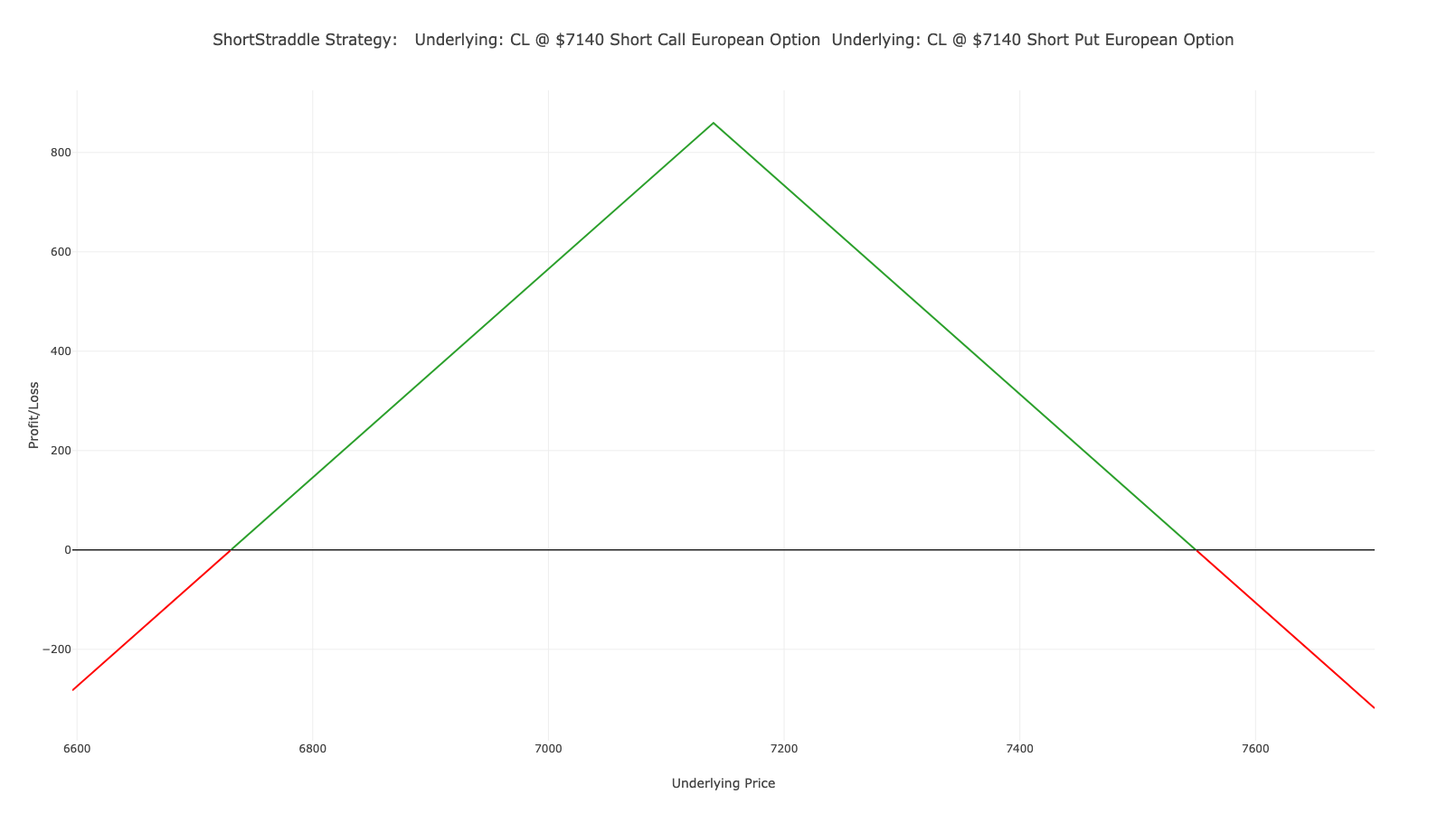
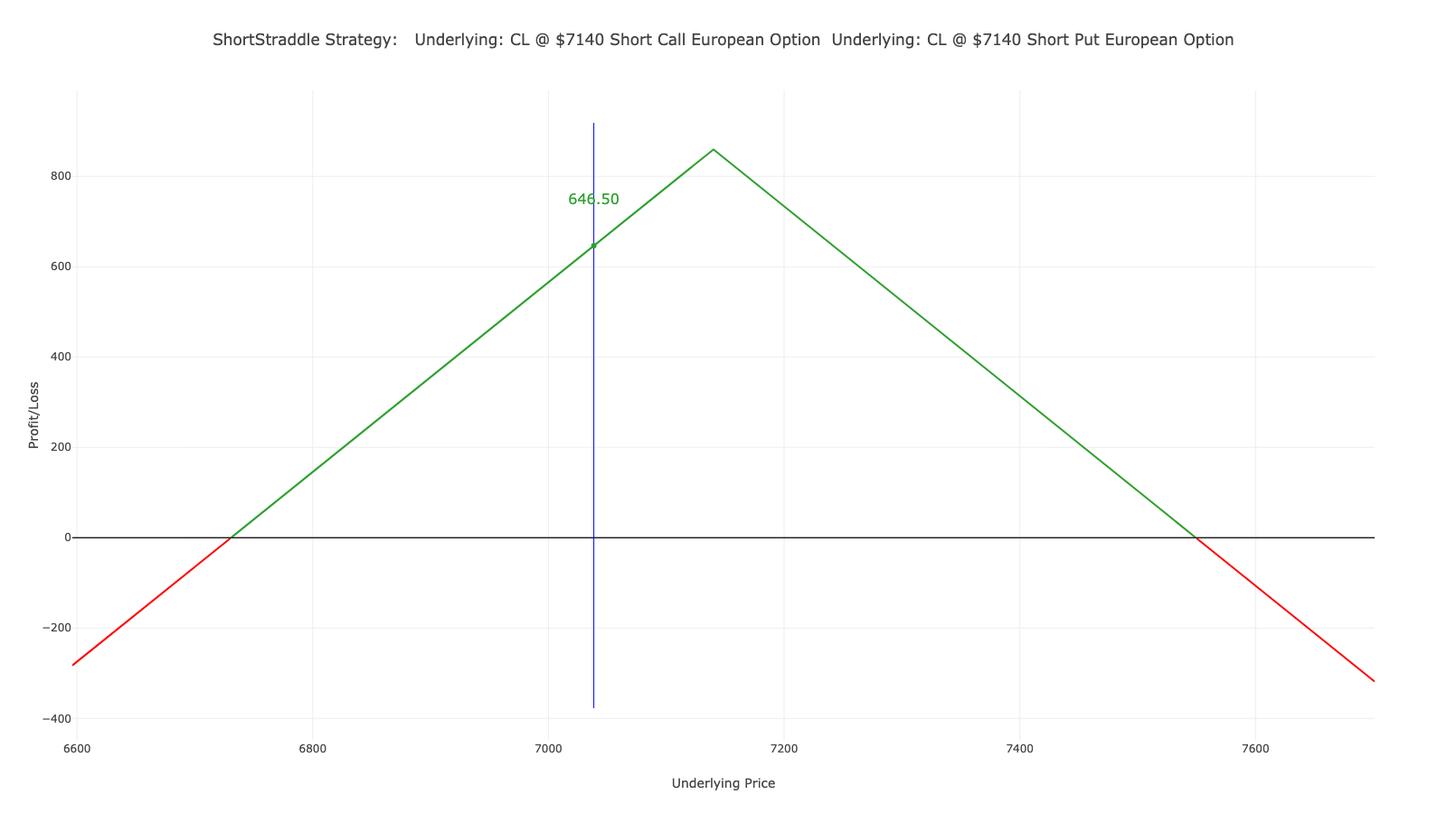
Update `strategy_short_straddle.rs`, visualization utils, and styles; add support for text labels in plots and adjust pricing

diff --git a/Draws/Strategy/bull_call_spread_profit_loss_chart.html b/Draws/Strategy/bull_call_spread_profit_loss_chart.html
@@ -16,7 +16,7 @@
 
         <script type="module">
             const graph_div = document.getElementById("plotly-html-element");
-            await Plotly.newPlot(graph_div, {"data":[{"type":"scatter","name":"BullCallSpread Strategy: \n\tUnderlying: SP500 @ $5820 Short Call European Option\n\tUnderlying: SP500 @ $5750 Long Call European Option","mode":"lines","x":["5808.8848","5809.8848","5810.8848","5811.8848","5812.8848","5813.8848","5814.8848","5815.8848","5816.8848","5817.8848","5818.8848","5819.8848","5820.8848","5821.8848","5822.8848","5823.8848","5824.8848","5825.8848","5826.8848","5827.8848","5828.8848","5829.8848","5830.8848","5831.8848","5832.8848","5833.8848","5834.8848","5835.8848","5836.8848","5837.8848","5838.8848","5839.8848","5840.8848","5841.8848","5842.8848","5843.8848","5844.8848","5845.8848","5846.8848","5847.8848","5848.8848","5849.8848","5850.8848","5851.8848","5852.8848","5853.8848","5854.8848","5855.8848","5856.8848","5857.8848","5858.8848","5859.8848","5860.8848","5861.8848","5862.8848","5863.8848","5864.8848","5865.8848","5866.8848","5867.8848","5868.8848","5869.8848","5870.8848","5871.8848","5872.8848","5873.8848","5874.8848","5875.8848","5876.8848","5877.8848","5878.8848","5879.8848","5880.8848","5881.8848","5882.8848","5883.8848","5884.8848","5885.8848","5886.8848","5887.8848","5888.8848","5889.8848","5890.8848","5891.8848","5892.8848","5893.8848","5894.8848","5895.8848","5896.8848","5897.8848","5898.8848","5899.8848","5900.8848","5901.8848","5902.8848","5903.8848","5904.8848","5905.8848","5906.8848","5907.8848","5908.8848","5909.8848","5910.8848","5911.8848","5912.8848","5913.8848","5914.8848","5915.8848","5916.8848","5917.8848","5918.8848","5919.8848","5920.8848","5921.8848","5922.8848","5923.8848","5924.8848","5925.8848","5926.8848","5927.8848","5928.8848","5929.8848","5930.8848","5931.8848","5932.8848","5933.8848","5934.8848","5935.8848","5936.8848"],"y":["1.3496","3.3496","5.3496","7.3496","9.3496","11.3496","13.3496","15.3496","17.3496","19.3496","21.3496","23.3496","23.5800","23.5800","23.5800","23.5800","23.5800","23.5800","23.5800","23.5800","23.5800","23.5800","23.5800","23.5800","23.5800","23.5800","23.5800","23.5800","23.5800","23.5800","23.5800","23.5800","23.5800","23.5800","23.5800","23.5800","23.5800","23.5800","23.5800","23.5800","23.5800","23.5800","23.5800","23.5800","23.5800","23.5800","23.5800","23.5800","23.5800","23.5800","23.5800","23.5800","23.5800","23.5800","23.5800","23.5800","23.5800","23.5800","23.5800","23.5800","23.5800","23.5800","23.5800","23.5800","23.5800","23.5800","23.5800","23.5800","23.5800","23.5800","23.5800","23.5800","23.5800","23.5800","23.5800","23.5800","23.5800","23.5800","23.5800","23.5800","23.5800","23.5800","23.5800","23.5800","23.5800","23.5800","23.5800","23.5800","23.5800","23.5800","23.5800","23.5800","23.5800","23.5800","23.5800","23.5800","23.5800","23.5800","23.5800","23.5800","23.5800","23.5800","23.5800","23.5800","23.5800","23.5800","23.5800","23.5800","23.5800","23.5800","23.5800","23.5800","23.5800","23.5800","23.5800","23.5800","23.5800","23.5800","23.5800","23.5800","23.5800","23.5800","23.5800","23.5800","23.5800","23.5800","23.5800","23.5800","23.5800"],"line":{"width":2.0,"color":"#2ca02c"}},{"type":"scatter","name":"Negative Payoff","mode":"lines","x":["5628.8848","5629.8848","5630.8848","5631.8848","5632.8848","5633.8848","5634.8848","5635.8848","5636.8848","5637.8848","5638.8848","5639.8848","5640.8848","5641.8848","5642.8848","5643.8848","5644.8848","5645.8848","5646.8848","5647.8848","5648.8848","5649.8848","5650.8848","5651.8848","5652.8848","5653.8848","5654.8848","5655.8848","5656.8848","5657.8848","5658.8848","5659.8848","5660.8848","5661.8848","5662.8848","5663.8848","5664.8848","5665.8848","5666.8848","5667.8848","5668.8848","5669.8848","5670.8848","5671.8848","5672.8848","5673.8848","5674.8848","5675.8848","5676.8848","5677.8848","5678.8848","5679.8848","5680.8848","5681.8848","5682.8848","5683.8848","5684.8848","5685.8848","5686.8848","5687.8848","5688.8848","5689.8848","5690.8848","5691.8848","5692.8848","5693.8848","5694.8848","5695.8848","5696.8848","5697.8848","5698.8848","5699.8848","5700.8848","5701.8848","5702.8848","5703.8848","5704.8848","5705.8848","5706.8848","5707.8848","5708.8848","5709.8848","5710.8848","5711.8848","5712.8848","5713.8848","5714.8848","5715.8848","5716.8848","5717.8848","5718.8848","5719.8848","5720.8848","5721.8848","5722.8848","5723.8848","5724.8848","5725.8848","5726.8848","5727.8848","5728.8848","5729.8848","5730.8848","5731.8848","5732.8848","5733.8848","5734.8848","5735.8848","5736.8848","5737.8848","5738.8848","5739.8848","5740.8848","5741.8848","5742.8848","5743.8848","5744.8848","5745.8848","5746.8848","5747.8848","5748.8848","5749.8848","5750.8848","5751.8848","5752.8848","5753.8848","5754.8848","5755.8848","5756.8848","5757.8848","5758.8848","5759.8848","5760.8848","5761.8848","5762.8848","5763.8848","5764.8848","5765.8848","5766.8848","5767.8848","5768.8848","5769.8848","5770.8848","5771.8848","5772.8848","5773.8848","5774.8848","5775.8848","5776.8848","5777.8848","5778.8848","5779.8848","5780.8848","5781.8848","5782.8848","5783.8848","5784.8848","5785.8848","5786.8848","5787.8848","5788.8848","5789.8848","5790.8848","5791.8848","5792.8848","5793.8848","5794.8848","5795.8848","5796.8848","5797.8848","5798.8848","5799.8848","5800.8848","5801.8848","5802.8848","5803.8848","5804.8848","5805.8848","5806.8848","5807.8848"],"y":["-116.42","-116.42","-116.42","-116.42","-116.42","-116.42","-116.42","-116.42","-116.42","-116.42","-116.42","-116.42","-116.42","-116.42","-116.42","-116.42","-116.42","-116.42","-116.42","-116.42","-116.42","-116.42","-116.42","-116.42","-116.42","-116.42","-116.42","-116.42","-116.42","-116.42","-116.42","-116.42","-116.42","-116.42","-116.42","-116.42","-116.42","-116.42","-116.42","-116.42","-116.42","-116.42","-116.42","-116.42","-116.42","-116.42","-116.42","-116.42","-116.42","-116.42","-116.42","-116.42","-116.42","-116.42","-116.42","-116.42","-116.42","-116.42","-116.42","-116.42","-116.42","-116.42","-116.42","-116.42","-116.42","-116.42","-116.42","-116.42","-116.42","-116.42","-116.42","-116.42","-116.42","-116.42","-116.42","-116.42","-116.42","-116.42","-116.42","-116.42","-116.42","-116.42","-116.42","-116.42","-116.42","-116.42","-116.42","-116.42","-116.42","-116.42","-116.42","-116.42","-116.42","-116.42","-116.42","-116.42","-116.42","-116.42","-116.42","-116.42","-116.42","-116.42","-116.42","-116.42","-116.42","-116.42","-116.42","-116.42","-116.42","-116.42","-116.42","-116.42","-116.42","-116.42","-116.42","-116.42","-116.42","-116.42","-116.42","-116.42","-116.42","-116.42","-114.6504","-112.6504","-110.6504","-108.6504","-106.6504","-104.6504","-102.6504","-100.6504","-98.6504","-96.6504","-94.6504","-92.6504","-90.6504","-88.6504","-86.6504","-84.6504","-82.6504","-80.6504","-78.6504","-76.6504","-74.6504","-72.6504","-70.6504","-68.6504","-66.6504","-64.6504","-62.6504","-60.6504","-58.6504","-56.6504","-54.6504","-52.6504","-50.6504","-48.6504","-46.6504","-44.6504","-42.6504","-40.6504","-38.6504","-36.6504","-34.6504","-32.6504","-30.6504","-28.6504","-26.6504","-24.6504","-22.6504","-20.6504","-18.6504","-16.6504","-14.6504","-12.6504","-10.6504","-8.6504","-6.6504","-4.6504","-2.6504","-0.6504"],"line":{"width":2.0,"color":"#FF0000"}}],"layout":{"title":{"text":"BullCallSpread Strategy: \n\tUnderlying: SP500 @ $5820 Short Call European Option\n\tUnderlying: SP500 @ $5750 Long Call European Option"},"showlegend":false,"width":1600,"height":900,"xaxis":{"title":{"text":"Underlying Price"}},"yaxis":{"title":{"text":"Profit/Loss"}}},"config":{}});
+            await Plotly.newPlot(graph_div, {"data":[{"type":"scatter","name":"BullCallSpread Strategy: \n\tUnderlying: SP500 @ $5820 Short Call European Option\n\tUnderlying: SP500 @ $5750 Long Call European Option","mode":"lines","x":["5628.8848","5629.8848","5630.8848","5631.8848","5632.8848","5633.8848","5634.8848","5635.8848","5636.8848","5637.8848","5638.8848","5639.8848","5640.8848","5641.8848","5642.8848","5643.8848","5644.8848","5645.8848","5646.8848","5647.8848","5648.8848","5649.8848","5650.8848","5651.8848","5652.8848","5653.8848","5654.8848","5655.8848","5656.8848","5657.8848","5658.8848","5659.8848","5660.8848","5661.8848","5662.8848","5663.8848","5664.8848","5665.8848","5666.8848","5667.8848","5668.8848","5669.8848","5670.8848","5671.8848","5672.8848","5673.8848","5674.8848","5675.8848","5676.8848","5677.8848","5678.8848","5679.8848","5680.8848","5681.8848","5682.8848","5683.8848","5684.8848","5685.8848","5686.8848","5687.8848","5688.8848","5689.8848","5690.8848","5691.8848","5692.8848","5693.8848","5694.8848","5695.8848","5696.8848","5697.8848","5698.8848","5699.8848","5700.8848","5701.8848","5702.8848","5703.8848","5704.8848","5705.8848","5706.8848","5707.8848","5708.8848","5709.8848","5710.8848","5711.8848","5712.8848","5713.8848","5714.8848","5715.8848","5716.8848","5717.8848","5718.8848","5719.8848","5720.8848","5721.8848","5722.8848","5723.8848","5724.8848","5725.8848","5726.8848","5727.8848","5728.8848","5729.8848","5730.8848","5731.8848","5732.8848","5733.8848","5734.8848","5735.8848","5736.8848","5737.8848","5738.8848","5739.8848","5740.8848","5741.8848","5742.8848","5743.8848","5744.8848","5745.8848","5746.8848","5747.8848","5748.8848","5749.8848","5750.8848","5751.8848","5752.8848","5753.8848","5754.8848","5755.8848","5756.8848","5757.8848","5758.8848","5759.8848","5760.8848","5761.8848","5762.8848","5763.8848","5764.8848","5765.8848","5766.8848","5767.8848","5768.8848","5769.8848","5770.8848","5771.8848","5772.8848","5773.8848","5774.8848","5775.8848","5776.8848","5777.8848","5778.8848","5779.8848","5780.8848","5781.8848","5782.8848","5783.8848","5784.8848","5785.8848","5786.8848","5787.8848","5788.8848","5789.8848","5790.8848","5791.8848","5792.8848","5793.8848","5794.8848","5795.8848","5796.8848","5797.8848","5798.8848","5799.8848","5800.8848","5801.8848","5802.8848","5803.8848","5804.8848","5805.8848","5806.8848","5807.8848"],"y":["-122.241","-122.241","-122.241","-122.241","-122.241","-122.241","-122.241","-122.241","-122.241","-122.241","-122.241","-122.241","-122.241","-122.241","-122.241","-122.241","-122.241","-122.241","-122.241","-122.241","-122.241","-122.241","-122.241","-122.241","-122.241","-122.241","-122.241","-122.241","-122.241","-122.241","-122.241","-122.241","-122.241","-122.241","-122.241","-122.241","-122.241","-122.241","-122.241","-122.241","-122.241","-122.241","-122.241","-122.241","-122.241","-122.241","-122.241","-122.241","-122.241","-122.241","-122.241","-122.241","-122.241","-122.241","-122.241","-122.241","-122.241","-122.241","-122.241","-122.241","-122.241","-122.241","-122.241","-122.241","-122.241","-122.241","-122.241","-122.241","-122.241","-122.241","-122.241","-122.241","-122.241","-122.241","-122.241","-122.241","-122.241","-122.241","-122.241","-122.241","-122.241","-122.241","-122.241","-122.241","-122.241","-122.241","-122.241","-122.241","-122.241","-122.241","-122.241","-122.241","-122.241","-122.241","-122.241","-122.241","-122.241","-122.241","-122.241","-122.241","-122.241","-122.241","-122.241","-122.241","-122.241","-122.241","-122.241","-122.241","-122.241","-122.241","-122.241","-122.241","-122.241","-122.241","-122.241","-122.241","-122.241","-122.241","-122.241","-122.241","-122.241","-122.241","-120.38292","-118.28292","-116.18292","-114.08292","-111.98292","-109.88292","-107.78292","-105.68292","-103.58292","-101.48292","-99.38292","-97.28292","-95.18292","-93.08292","-90.98292","-88.88292","-86.78292","-84.68292","-82.58292","-80.48292","-78.38292","-76.28292","-74.18292","-72.08292","-69.98292","-67.88292","-65.78292","-63.68292","-61.58292","-59.48292","-57.38292","-55.28292","-53.18292","-51.08292","-48.98292","-46.88292","-44.78292","-42.68292","-40.58292","-38.48292","-36.38292","-34.28292","-32.18292","-30.08292","-27.98292","-25.88292","-23.78292","-21.68292","-19.58292","-17.48292","-15.38292","-13.28292","-11.18292","-9.08292","-6.98292","-4.88292","-2.78292","-0.68292"],"line":{"width":2.0,"color":"#FF0000"}},{"type":"scatter","name":"Segment 2","mode":"lines","x":["5808.8848","5809.8848","5810.8848","5811.8848","5812.8848","5813.8848","5814.8848","5815.8848","5816.8848","5817.8848","5818.8848","5819.8848","5820.8848","5821.8848","5822.8848","5823.8848","5824.8848","5825.8848","5826.8848","5827.8848","5828.8848","5829.8848","5830.8848","5831.8848","5832.8848","5833.8848","5834.8848","5835.8848","5836.8848","5837.8848","5838.8848","5839.8848","5840.8848","5841.8848","5842.8848","5843.8848","5844.8848","5845.8848","5846.8848","5847.8848","5848.8848","5849.8848","5850.8848","5851.8848","5852.8848","5853.8848","5854.8848","5855.8848","5856.8848","5857.8848","5858.8848","5859.8848","5860.8848","5861.8848","5862.8848","5863.8848","5864.8848","5865.8848","5866.8848","5867.8848","5868.8848","5869.8848","5870.8848","5871.8848","5872.8848","5873.8848","5874.8848","5875.8848","5876.8848","5877.8848","5878.8848","5879.8848","5880.8848","5881.8848","5882.8848","5883.8848","5884.8848","5885.8848","5886.8848","5887.8848","5888.8848","5889.8848","5890.8848","5891.8848","5892.8848","5893.8848","5894.8848","5895.8848","5896.8848","5897.8848","5898.8848","5899.8848","5900.8848","5901.8848","5902.8848","5903.8848","5904.8848","5905.8848","5906.8848","5907.8848","5908.8848","5909.8848","5910.8848","5911.8848","5912.8848","5913.8848","5914.8848","5915.8848","5916.8848","5917.8848","5918.8848","5919.8848","5920.8848","5921.8848","5922.8848","5923.8848","5924.8848","5925.8848","5926.8848","5927.8848","5928.8848","5929.8848","5930.8848","5931.8848","5932.8848","5933.8848","5934.8848","5935.8848","5936.8848"],"y":["1.41708","3.51708","5.61708","7.71708","9.81708","11.91708","14.01708","16.11708","18.21708","20.31708","22.41708","24.51708","24.75900","24.75900","24.75900","24.75900","24.75900","24.75900","24.75900","24.75900","24.75900","24.75900","24.75900","24.75900","24.75900","24.75900","24.75900","24.75900","24.75900","24.75900","24.75900","24.75900","24.75900","24.75900","24.75900","24.75900","24.75900","24.75900","24.75900","24.75900","24.75900","24.75900","24.75900","24.75900","24.75900","24.75900","24.75900","24.75900","24.75900","24.75900","24.75900","24.75900","24.75900","24.75900","24.75900","24.75900","24.75900","24.75900","24.75900","24.75900","24.75900","24.75900","24.75900","24.75900","24.75900","24.75900","24.75900","24.75900","24.75900","24.75900","24.75900","24.7590000000001","24.75900","24.7590000000001","24.75900","24.75900","24.7590000000001","24.75900","24.7590000000001","24.75900","24.75900","24.7590000000001","24.75900","24.7590000000001","24.75900","24.75900","24.7590000000001","24.75900","24.7590000000001","24.75900","24.75900","24.7590000000001","24.75900","24.7590000000001","24.75900","24.75900","24.7590000000001","24.75900","24.7590000000001","24.75900","24.75900","24.7590000000001","24.75900","24.7590000000001","24.75900","24.75900","24.7590000000001","24.75900","24.7590000000001","24.75900","24.75900","24.7590000000001","24.75900","24.7590000000001","24.75900","24.75900","24.7590000000001","24.75900","24.7590000000001","24.75900","24.75900","24.7590000000001","24.75900","24.7590000000001","24.75900","24.75900","24.7590000000001","24.75900","24.7590000000001"],"line":{"width":2.0,"color":"#2ca02c"}},{"type":"scatter","name":"Break Even","mode":"lines","x":["5628.8848","5936.8848"],"y":["0","0"],"line":{"width":1.0,"color":"#000000"}},{"type":"scatter","name":"Current Price","mode":"lines","x":["5781.88","5781.88"],"y":["-129.591000000000005","32.109000000000105"],"line":{"width":1.0,"color":"#0000FF"}},{"type":"scatter","name":"Current P/L: -55.29","mode":"markers","x":["5781.88"],"y":["-55.293"],"line":{"width":10.0,"color":"#FF0000"}},{"type":"scatter","name":"-55.29","mode":"text","x":["5781.88"],"y":["-155.293"],"text":["-55.29"],"line":{"width":0.0,"color":"#FF0000"},"textfont":{"size":16,"color":"#FF0000"}}],"layout":{"title":{"text":"BullCallSpread Strategy: \n\tUnderlying: SP500 @ $5820 Short Call European Option\n\tUnderlying: SP500 @ $5750 Long Call European Option"},"showlegend":false,"width":1600,"height":900,"xaxis":{"title":{"text":"Underlying Price"}},"yaxis":{"title":{"text":"Profit/Loss"}}},"config":{}});
         </script>
     </div>
 </body>

diff --git a/src/strategies/graph.rs b/src/strategies/graph.rs
@@ -68,6 +68,7 @@ macro_rules! impl_graph_for_payoff_strategy {
             impl Graph for $t {
                 fn graph_data(&self) -> GraphData {
                     let underlying_price = self.get_underlying_price();
+                    let pay_off_at_underlying_price = self.calculate_profit_at(&underlying_price).unwrap_or(Decimal::ZERO);
                     let range = match self.get_best_range_to_show(Positive::ONE){
                         Ok(range) => range,
                         Err(_) => return GraphData::Series(Series2D::default()),
@@ -93,16 +94,99 @@ macro_rules! impl_graph_for_payoff_strategy {
                         line_width: Some(1.0),
                     };
                     
-                    // Get min and max prices for the zero line
+                    // Add a vertical line at the current underlying price
+                    let mut current_price_line = Series2D {
+                        x: vec![],
+                        y: vec![],
+                        name: "Current Price".to_string(),
+                        mode: TraceMode::Lines,
+                        line_color: Some("#0000FF".to_string()), // Color azul
+                        line_width: Some(1.0),
+                    };
+                    
+                    // Add a point at current price with its payoff value
+                    // Color depends on payoff value: green (positive), blue (zero), red (negative)
+                    let point_color = if pay_off_at_underlying_price > Decimal::ZERO {
+                        "#2ca02c".to_string() // Verde para valores positivos
+                    } else if pay_off_at_underlying_price < Decimal::ZERO {
+                        "#FF0000".to_string() // Rojo para valores negativos
+                    } else {
+                        "#0000FF".to_string() // Azul para cero
+                    };
+                    
+                    // Format the payoff value with 2 decimals for the label
+                    let formatted_payoff = format!("{:.2}", pay_off_at_underlying_price);
+                    
+                    // Create a point to mark the current position with a larger size
+                    // and use the appropriate color based on the payoff value
+                    let current_point = Series2D {
+                        x: vec![underlying_price.to_dec()],
+                        y: vec![pay_off_at_underlying_price],
+                        // La etiqueta aparecerá en la leyenda y al pasar el cursor sobre el punto
+                        name: format!("Current P/L: {}", formatted_payoff),
+                        // Usar LinesMarkers para que se muestre el punto
+                        mode: TraceMode::Markers,
+                        line_color: Some(point_color.clone()),
+                        line_width: Some(10.0), // Punto más grande para mejor visibilidad
+                    };
+                    
+                    // Create an additional series for the visible label on the graph
+                    // This series will have a single point with a visible text label
+                    // Calculate a vertical offset for the label based on the graph range
+                    // so that it appears just above the point
+                    let y_offset = if pay_off_at_underlying_price >= Decimal::ZERO {
+                        pay_off_at_underlying_price + Decimal::new(100, 0) // Larger positive offset
+                    } else {
+                        pay_off_at_underlying_price - Decimal::new(100, 0) // Larger negative offset
+                    };
+                    
+                    // Create a series for the label with visible text
+                    let label_series = Series2D {
+                        x: vec![underlying_price.to_dec()],
+                        y: vec![y_offset],
+                        // The label will show the payoff value with the corresponding sign
+                        name: formatted_payoff,
+                        // Use TextLabels mode to display as text
+                        mode: TraceMode::TextLabels,
+                        // Use the same color as the point for visual consistency
+                        line_color: Some(point_color),
+                        // Make the point invisible so only the text is visible
+                        line_width: Some(0.0),
+                    };
+                    
+                    // Get min and max values for reference lines
                     if !range.is_empty() {
                         let min_price = range.first().unwrap().to_dec();
                         let max_price = range.last().unwrap().to_dec();
                         
-                        // Add zero line points
+                        // Add zero line points (horizontal line at y=0)
                         zero_line.x.push(min_price);
                         zero_line.y.push(Decimal::ZERO);
                         zero_line.x.push(max_price);
                         zero_line.y.push(Decimal::ZERO);
+                        
+                        // Calculate min and max profit values to determine the vertical range
+                        let mut min_profit = Decimal::MAX;
+                        let mut max_profit = Decimal::MIN;
+                        
+                        for price in range.iter() {
+                            if let Ok(profit) = self.calculate_profit_at(price) {
+                                if profit < min_profit {
+                                    min_profit = profit;
+                                }
+                                if profit > max_profit {
+                                    max_profit = profit;
+                                }
+                            }
+                        }
+                        
+                        // Add vertical line at current underlying price
+                        // Extend it slightly beyond min/max profit for visibility
+                        let padding = (max_profit - min_profit) * Decimal::new(5, 2); // 5% padding
+                        current_price_line.x.push(underlying_price.to_dec());
+                        current_price_line.y.push(min_profit - padding);
+                        current_price_line.x.push(underlying_price.to_dec());
+                        current_price_line.y.push(max_profit + padding);
                     }
                     
                     // Calculate profit at each price point and add to the series
@@ -161,7 +245,7 @@ macro_rules! impl_graph_for_payoff_strategy {
                             "#000000".to_string() // Negro para cero
                         };
                         
-                        let mut series = Series2D {
+                        let series = Series2D {
                             x: segment.iter().map(|(x, _)| *x).collect(),
                             y: segment.iter().map(|(_, y)| *y).collect(),
                             name: format!("Segment {}", i + 1),
@@ -173,8 +257,14 @@ macro_rules! impl_graph_for_payoff_strategy {
                         series_list.push(series);
                     }
                     
-                    // Añadir la línea de cero
+                    // Eliminar las líneas verticales para cada precio, ya que no son necesarias
+                    // y estaban causando errores por usar variables no definidas
+                    
+                    // Añadir las líneas de referencia, el punto actual y la etiqueta
                     series_list.push(zero_line);
+                    series_list.push(current_price_line);
+                    series_list.push(current_point);
+                    series_list.push(label_series);
                     
                     GraphData::MultiSeries(series_list)
                 }

diff --git a/src/visualization/utils.rs b/src/visualization/utils.rs
@@ -17,12 +17,15 @@ pub fn make_scatter(series: &Series2D) -> Box<Scatter<Decimal, Decimal>> {
         TraceMode::Lines => Mode::Lines,
         TraceMode::Markers => Mode::Markers,
         TraceMode::LinesMarkers => Mode::LinesMarkers,
+        TraceMode::TextLabels => Mode::Text,
     };
 
+    // Create the scatter with coordinates and name
     let mut trace = Scatter::new(series.x.clone(), series.y.clone())
         .name(series.name.clone())
         .mode(mode);
 
+    // Configure the line with color and width if specified
     let mut line = Line::new();
     if let Some(w) = series.line_width {
         line = line.width(w);
@@ -33,6 +36,49 @@ pub fn make_scatter(series: &Series2D) -> Box<Scatter<Decimal, Decimal>> {
     }
 
     trace = trace.line(line);
+    
+    // Handle text labels mode
+    if matches!(series.mode, TraceMode::TextLabels) {
+        // Use the name as text for each point
+        let text_vec = vec![series.name.clone(); series.x.len()];
+        
+        // Set the text for each point
+        trace = trace.text_array(text_vec);
+        
+        // Configure the mode to show text
+        trace = trace.mode(Mode::Text);
+        
+        // Configure the text to be visible with appropriate color
+        if let Some(ref color) = series.line_color {
+            // Increase font size for better visibility
+            let text_font = plotly::common::Font::new()
+                .color(color.to_string())
+                .size(16);
+            trace = trace.text_font(text_font);
+        }
+    } else if matches!(series.mode, TraceMode::Markers) && series.line_width == Some(0.0) {
+        // Backward compatibility for old implementation
+        // Use the name as text for each point
+        let text_vec = vec![series.name.clone(); series.x.len()];
+        
+        // Set the text for each point
+        trace = trace.text_array(text_vec);
+        
+        // Configure the text to be visible with appropriate color
+        if let Some(ref color) = series.line_color {
+            // Increase font size for better visibility
+            let text_font = plotly::common::Font::new()
+                .color(color.to_string())
+                .size(16);
+            trace = trace.text_font(text_font);
+            
+            // Make the marker visible with appropriate color
+            let marker = plotly::common::Marker::new()
+                .size(10)
+                .color(color.to_string());
+            trace = trace.marker(marker);
+        }
+    }
 
     trace
 }
@@ -134,6 +180,7 @@ pub fn to_plotly_mode(mode: &TraceMode) -> Mode {
         TraceMode::Lines => Mode::Lines,
         TraceMode::Markers => Mode::Markers,
         TraceMode::LinesMarkers => Mode::LinesMarkers,
+        TraceMode::TextLabels => Mode::Text,
     }
 }
 

diff --git a/src/visualization/model.rs b/src/visualization/model.rs
@@ -21,6 +21,62 @@ use rust_decimal::Decimal;
 use serde::{Deserialize, Serialize};
 use std::path::PathBuf;
 
+
+#[derive(Clone, Debug, PartialEq, Serialize, Deserialize)]
+pub struct Point2D {
+
+    pub x: Decimal,
+    
+    pub y: Decimal,
+
+    /// Name of the data series, used for legends and identification.
+    pub name: String,
+
+    /// Visual mode of the trace (lines, markers, or both).
+    pub mode: TraceMode,
+    
+    pub color: Option<String>,
+    
+    pub width: Option<f64>,
+}
+
+#[derive(Clone, Debug, PartialEq, Serialize, Deserialize)]
+pub struct Point3D {
+
+    pub x: Decimal,
+
+    pub y: Decimal,
+    
+    pub z: Decimal,
+
+    /// Name of the data series, used for legends and identification.
+    pub name: String,
+
+    /// Visual mode of the trace (lines, markers, or both).
+    pub mode: TraceMode,
+
+    pub color: Option<String>,
+
+    pub width: Option<f64>,
+}
+
+#[derive(Clone, Debug, PartialEq, Serialize, Deserialize)]
+pub struct Label2D {
+
+    pub point: Point2D,
+
+    pub label: String,
+}
+
+#[derive(Clone, Debug, PartialEq, Serialize, Deserialize)]
+pub struct Label3D {
+
+    pub point: Point3D,
+
+    pub label: String,
+}
+
+
 /// Represents a two-dimensional data series for plotting.
 ///
 /// This struct contains the X and Y coordinates of data points, along with

diff --git a/src/visualization/styles.rs b/src/visualization/styles.rs
@@ -56,6 +56,8 @@ pub enum TraceMode {
     Markers,
     /// Display both lines connecting points and individual markers.
     LinesMarkers,
+    /// Display text labels at points.
+    TextLabels,
 }
 
 /// Represents different types of plots that can be generated.

diff --git a/examples/examples_strategies/src/bin/strategy_short_straddle.rs b/examples/examples_strategies/src/bin/strategy_short_straddle.rs
@@ -10,7 +10,7 @@ use tracing::info;
 
 fn main() -> Result<(), Box<dyn Error>> {
     setup_logger();
-    let underlying_price = pos!(7138.5);
+    let underlying_price = pos!(7038.5);
 
     let strategy = ShortStraddle::new(
         "CL".to_string(),
